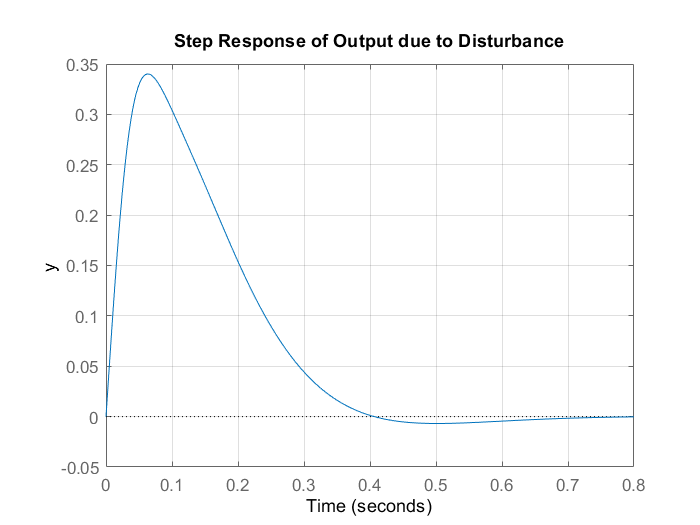
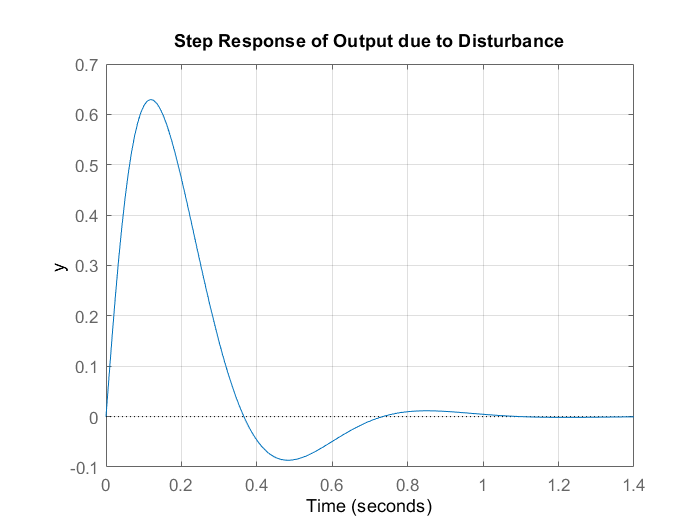
fixed issue with f_lead and fy

diff --git a/lab1_4_2.m b/lab1_4_2.m
@@ -8,12 +8,12 @@ G_d = 10/(s+1);
 
 %% 4.2.1
 % Improper Design
-F_y_1 = G^-1 * ((Wcp+2)/s);
+F_y_1 = G^-1 * ((Wcp)/s);
 
 % Proper Design
 % Pole to make it proper
 pole_place = 10*Wcp;
-F_y_2 = F_y_1*(pole_place/(s+pole_place)^2);
+F_y_2 = F_y_1*(pole_place^2/(s+pole_place)^2);
 ol = F_y_2*G;
 
 margin(ol);
@@ -52,7 +52,7 @@ margin(ol_4)
 
 
 %% 4.2.3
-tau = 0.125;
+tau = 0.135;
 Fr = 1/(1+tau*s);
 
 Fy = F_y_4;
@@ -63,10 +63,10 @@ ol = Fy*G;
 
 %lead compensation
 
-wc_desired = 25;
+wc_desired = 12;
 pm_desired = 60;
 
-beta = 0.47;
+beta = 0.85;
 tau_d = 1/(wc_desired*sqrt(beta));
 
 F_lead = (tau_d*s + 1)/(beta*tau_d*s + 1);
@@ -74,17 +74,21 @@ F_lead = (tau_d*s + 1)/(beta*tau_d*s + 1);
 % Solve for K
 gain = evalfr(G*F_lead*Fy,wc_desired*1i);
 K = 1/norm(gain);
+% K = 0.75;
 
 F_lead = K*F_lead;
 
+Fy_lead = F_lead*Fy;
+
 % end lead compensation
 
-ol = F_lead*Fy*G;
+ol = Fy_lead*G;
 cl = Fr*(ol)/(1+ol);
 
 S = 1/(1+ol);
-u_r = Fy*Fr*S;
-u_d = Fy*Gd*S;
+T = 1-S;
+u_r = Fy_lead*Fr*S;
+u_d = Fy_lead*Gd*S;
 
 
 clf('reset');
@@ -109,7 +113,7 @@ figure(3);
 hold on
 plot(step(u_r),'b');
 plot(step(u_d),'r');
-plot(step_u_rd,'y');
+plot(step_u_rd,'k');
 hold off
 title('Step Response of Input');
 xlabel('Time'); ylabel('u'); ylim([0,1.2]); grid on;
@@ -124,13 +128,19 @@ title('Step Response of Output due to Disturbance');
 xlabel('Time');
 ylabel('y');
 grid on;
-
-
 hold off
 
+% Check Sensitivity and Complementary Sensitivity
+figure(5);
+hold on;
+bode(S);
+bode(T);
+hold off;
+title('Bode Diagram of S and T');
+legend('Sensitivity, S', 'Complementary Sensitivity, T')
 
-
-
+[Gm_pls,Pm_pls,Wcg_pls,Wc_pls] = margin(S);
+Wc_pls
 
 
 
